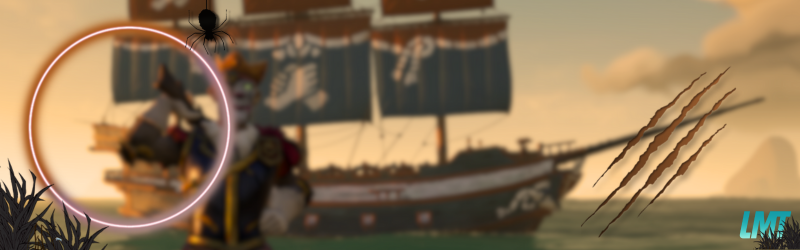
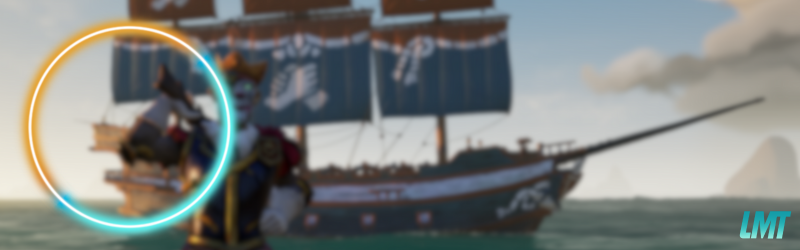
Ajout backgrounds Halloween/Noël et mise à jour du code

diff --git a/bot.py b/bot.py
@@ -7,6 +7,7 @@ import aiohttp
 import io
 import os
 import asyncio
+from datetime import datetime  # ← Ajouté pour gérer les dates
 
 intents = discord.Intents.default()
 intents.members = True
@@ -39,8 +40,20 @@ async def on_member_join(member):
             async with session.get(str(member.display_avatar.url)) as resp:
                 avatar_bytes = await resp.read()
 
-        # Charger l'image de fond
-        background = Image.open("background.png").convert("RGBA")
+        # 🔹 Choix du background selon la date
+        today = datetime(2025, 11, 15)  # Simule le 15 octobre
+        month = today.month
+        day = today.day
+
+        if month == 10 and 1 <= day <= 31:  # Halloween
+            bg_file = "background2.png"
+        elif month == 12 and 1 <= day <= 31:  # Noël
+            bg_file = "background3.png"
+        else:  # Basique
+            bg_file = "background.png"
+
+        # Charger l'image de fond choisie
+        background = Image.open(bg_file).convert("RGBA")
         background = background.resize((800, 250))
 
         # Avatar en cercle
